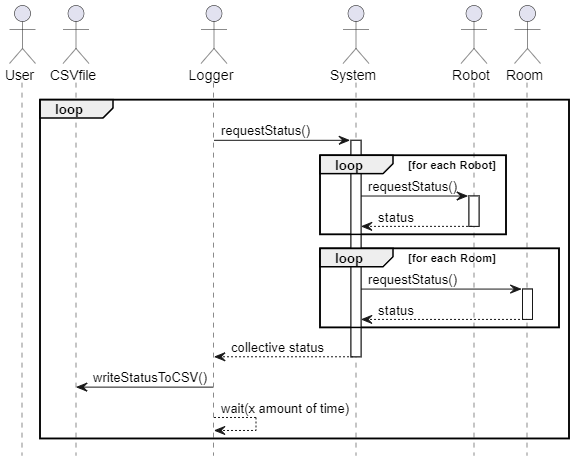
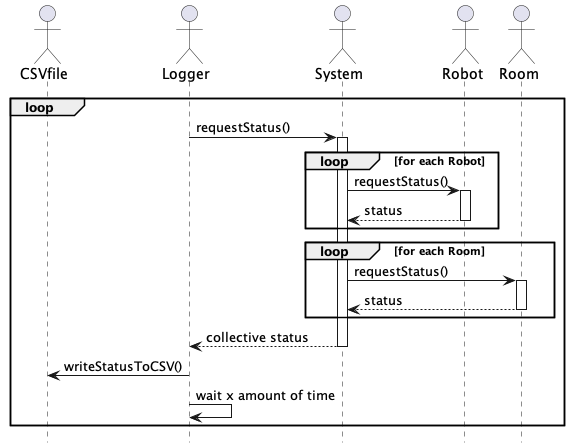
updated to correct logger sequence diagram image

diff --git a/docs/design/sequence_diagrams/SequenceDiagrams.md b/docs/design/sequence_diagrams/SequenceDiagrams.md
@@ -32,7 +32,7 @@ When A robots battery level has fully depleted. the robot will cease working and
 ## Logger Object
 This sequence diagram shows the functionality containted within the loop that the logger will run on. The logger must collect certain information every x seconds and add that information onto a csv file. The logger will run on an independent thread and run this loop continuously
 
-![Logger Sequence Diagram](images/LoggerSequence.png)
+![Logger Sequence Diagram](images/loggerSequence.png)
 
 
 ## Query Room Status
